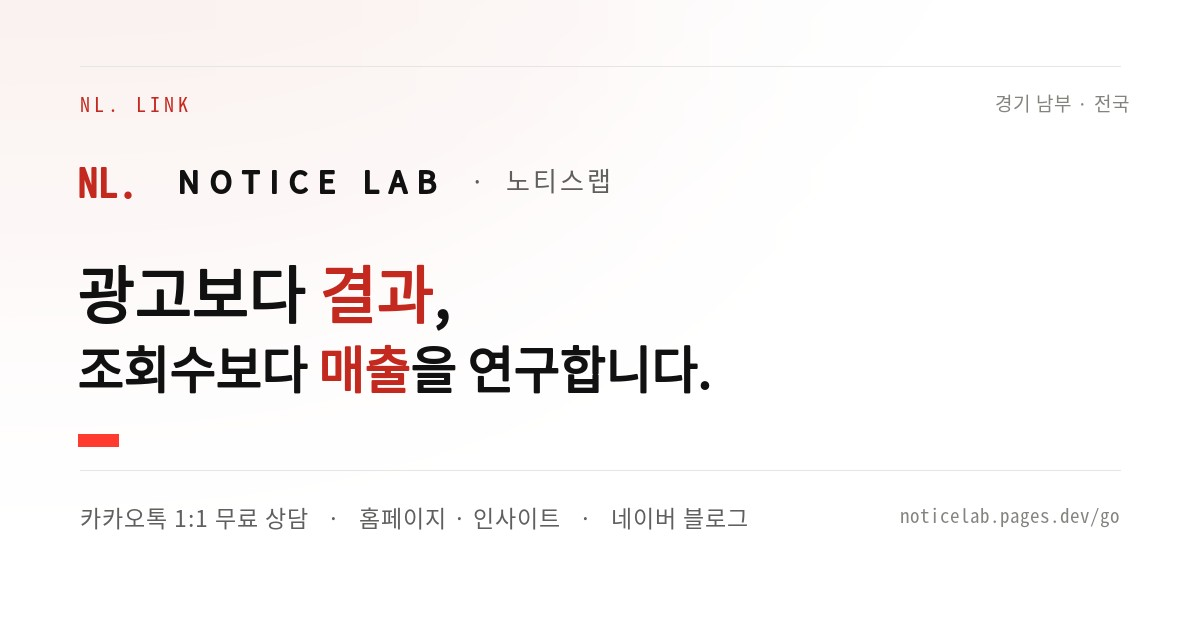
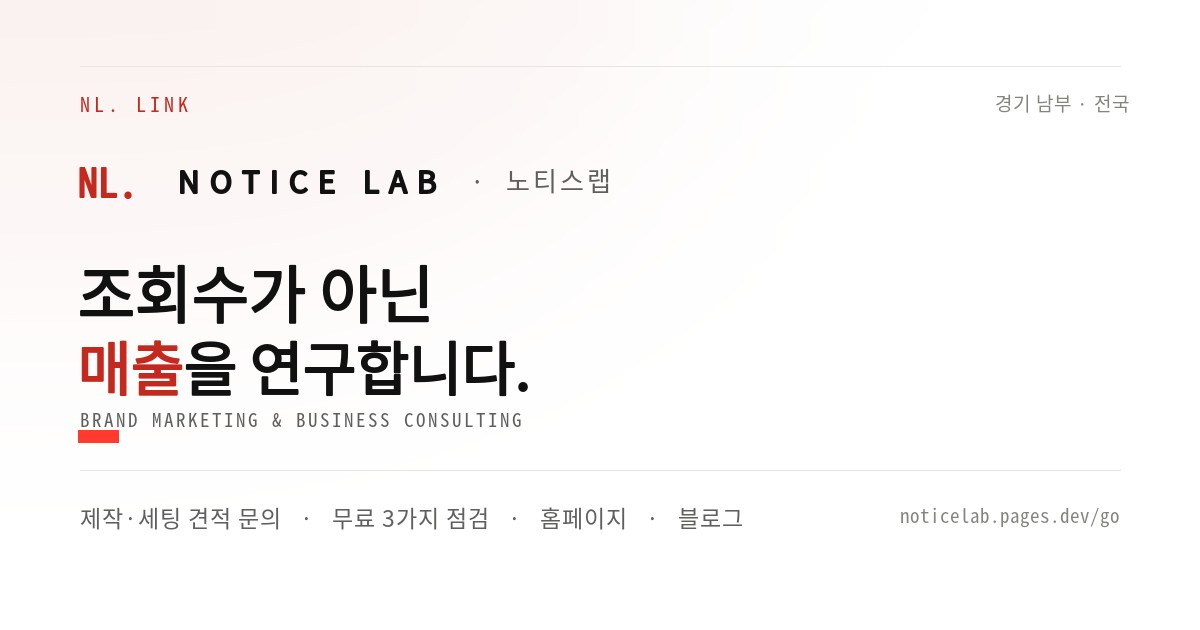
fix: 섹션 인디케이터 번호·서브페이지 문단 리듬·메뉴 버튼 폭, /go/ 공유 카드 문구 갱신

Changed region(s): [[0.0617, 0.5429, 0.5858, 0.7238], [0.0617, 0.4222, 0.37, 0.5127], [0.0617, 0.7841, 0.6167, 0.8444]]

diff --git a/dist/about/index.html b/dist/about/index.html
@@ -241,7 +241,7 @@
   <div class="sp-block-head">
     <p class="sp-block-no">01</p>
     <p class="sp-block-label">STORY</p>
-    <h2 class="sp-block-title">쿠폰 주머니에서 시작된 소비자의 시선</h2>
+    <h2 class="sp-block-title">왜 이 일을 하는가</h2>
   </div>
   <div class="sp-block-body"><p>친구들이 쿠폰을 챙겨 다니지 않던 시절, 저는 따로 쿠폰 주머니를 들고 다니던 사람이었습니다.</p><p>같은 제품이라도 어디에서 구매하는 것이 합리적인지, 어떤 혜택을 받을 수 있는지 알아보는 일이 즐거웠습니다.</p><p>2007년부터 블로그를 운영하며 다양한 매장과 제품을 경험하고 여러 브랜드와 협업했습니다. 소비자가 어떤 정보를 찾고, 무엇을 비교하며, 어떤 이유로 지갑을 여는지 살펴왔습니다.</p><p>하지만 사업자의 입장에서는 또 다른 고민이 있습니다. 매출이 발생한다고 해서 반드시 충분한 마진이 남는 것은 아니고, 좋은 제품과 서비스가 있어도 필요한 정보가 전달되지 않으면 선택받기 어렵습니다.</p><p>광고를 더 많이 하는 것보다, 고객이 선택할 이유를 제대로 전달할 수는 없을까. 노티스랩은 그 질문에서 출발했습니다.</p><p>광고와 마케팅으로 브랜드를 알리고, 경영컨설팅으로 사업의 방향을 고민하며, 글과 이미지, 영상으로 실행합니다. 소비자의 시선으로 발견하고, 사업자의 입장에서 연구합니다.</p></div>
 </section>

diff --git a/assets/css/style.css b/assets/css/style.css
@@ -359,6 +359,7 @@ body.nav-open .nav-overlay::before {
 .menu-toggle {
   position: relative;
   display: inline-flex;
+  min-width: 68px;
   align-items: center;
   justify-content: center;
   min-height: 38px;
@@ -2770,7 +2771,7 @@ body.nav-open .brand-mark { color: var(--ink); }
 .checks-foot {
   margin-top: 22px;
   font-family: var(--mono);
-  font-size: 9.5px;
+  font-size: 10px;
   line-height: 1.9;
   color: var(--ink-3);
   max-width: 100ch;
@@ -3249,8 +3250,9 @@ body.nav-open .brand-mark { color: var(--ink); }
   letter-spacing: -.04em;
   font-weight: 600;
 }
-.sp-block-body { display: grid; gap: 12px; align-content: start; font-size: .92rem; line-height: 1.85; color: var(--ink-2); }
+.sp-block-body { display: grid; gap: 16px; align-content: start; font-size: .92rem; line-height: 1.85; color: var(--ink-2); }
 .sp-block-body > p { max-width: 64ch; }
+.sp-block-body > p + p { margin-top: 2px; }
 
 .sp-list { display: grid; }
 .sp-list li {

diff --git a/dist/assets/css/style.css b/dist/assets/css/style.css
@@ -359,6 +359,7 @@ body.nav-open .nav-overlay::before {
 .menu-toggle {
   position: relative;
   display: inline-flex;
+  min-width: 68px;
   align-items: center;
   justify-content: center;
   min-height: 38px;
@@ -2770,7 +2771,7 @@ body.nav-open .brand-mark { color: var(--ink); }
 .checks-foot {
   margin-top: 22px;
   font-family: var(--mono);
-  font-size: 9.5px;
+  font-size: 10px;
   line-height: 1.9;
   color: var(--ink-3);
   max-width: 100ch;
@@ -3249,8 +3250,9 @@ body.nav-open .brand-mark { color: var(--ink); }
   letter-spacing: -.04em;
   font-weight: 600;
 }
-.sp-block-body { display: grid; gap: 12px; align-content: start; font-size: .92rem; line-height: 1.85; color: var(--ink-2); }
+.sp-block-body { display: grid; gap: 16px; align-content: start; font-size: .92rem; line-height: 1.85; color: var(--ink-2); }
 .sp-block-body > p { max-width: 64ch; }
+.sp-block-body > p + p { margin-top: 2px; }
 
 .sp-list { display: grid; }
 .sp-list li {

diff --git a/assets/js/site.js b/assets/js/site.js
@@ -71,7 +71,7 @@
       stops.forEach(function (node, index) {
         if (node.getBoundingClientRect().top <= mark) active = index;
       });
-      var label = Math.max(1, Math.min(active, stops.length - 1));
+      var label = Math.max(1, Math.min(active + 1, stops.length));
       if (currentLabel) currentLabel.textContent = label < 10 ? "0" + label : String(label);
 
       /* 2026-11 밝은 톤 개편: 사이트 전체가 밝은 지면이라 인디케이터 색은 항상 같은 값을 씁니다. */

diff --git a/dist/assets/js/site.js b/dist/assets/js/site.js
@@ -71,7 +71,7 @@
       stops.forEach(function (node, index) {
         if (node.getBoundingClientRect().top <= mark) active = index;
       });
-      var label = Math.max(1, Math.min(active, stops.length - 1));
+      var label = Math.max(1, Math.min(active + 1, stops.length));
       if (currentLabel) currentLabel.textContent = label < 10 ? "0" + label : String(label);
 
       /* 2026-11 밝은 톤 개편: 사이트 전체가 밝은 지면이라 인디케이터 색은 항상 같은 값을 씁니다. */

diff --git a/scripts/prepare_go_og.py b/scripts/prepare_go_og.py
@@ -81,13 +81,13 @@ def main() -> int:
 
     # 슬로건
     f1 = font(FONT_REG, 62)
-    line(draw, (78, 246), [("광고보다 ", INK), ("결과", CORAL_INK), (",", INK)], f1, bold=1)
-    line(draw, (78, 330), [("조회수보다 ", INK), ("매출", CORAL_INK), ("을 연구합니다.", INK)],
-         font(FONT_REG, 50), bold=1)
+    line(draw, (78, 246), [("조회수가 아닌 ", INK)], f1, bold=1)
+    line(draw, (78, 322), [("매출", CORAL_INK), ("을 연구합니다.", INK)], font(FONT_REG, 58), bold=1)
+    text(draw, (80, 404), "BRAND MARKETING & BUSINESS CONSULTING", font(FONT_MONO, 19), MUTED, spacing=2)
 
     # 하단 링크 요약
     draw.line([(80, 470), (W - 80, 470)], fill=HAIR, width=1)
-    text(draw, (80, 500), "카카오톡 1:1 무료 상담   ·   홈페이지 · 인사이트   ·   네이버 블로그",
+    text(draw, (80, 500), "제작·세팅 견적 문의   ·   무료 3가지 점검   ·   홈페이지   ·   블로그",
          font(FONT_REG, 23), MUTED, spacing=1)
 
     # 우하단 주소
@@ -96,7 +96,7 @@ def main() -> int:
     text(draw, (W - 80 - draw.textlength(addr, font=af), 500), addr, af, DIM)
 
     # 코랄 사각 마크
-    draw.rectangle([78, 434, 118, 446], fill=CORAL)
+    draw.rectangle([78, 430, 118, 442], fill=CORAL)
 
     os.makedirs(os.path.dirname(OUT), exist_ok=True)
     img.save(OUT, "JPEG", quality=90, optimize=True, progressive=True)

diff --git a/build.py b/build.py
@@ -1518,7 +1518,7 @@ def page_specs(config: dict) -> list[dict]:
     ]
 
     about_blocks = [
-        sp_block("01", "STORY", "쿠폰 주머니에서 시작된 소비자의 시선", sp_paras([
+        sp_block("01", "STORY", "왜 이 일을 하는가", sp_paras([
             "친구들이 쿠폰을 챙겨 다니지 않던 시절, 저는 따로 쿠폰 주머니를 들고 다니던 사람이었습니다.",
             "같은 제품이라도 어디에서 구매하는 것이 합리적인지, 어떤 혜택을 받을 수 있는지 알아보는 일이 즐거웠습니다.",
             "2007년부터 블로그를 운영하며 다양한 매장과 제품을 경험하고 여러 브랜드와 협업했습니다. 소비자가 어떤 정보를 찾고, 무엇을 비교하며, 어떤 이유로 지갑을 여는지 살펴왔습니다.",
